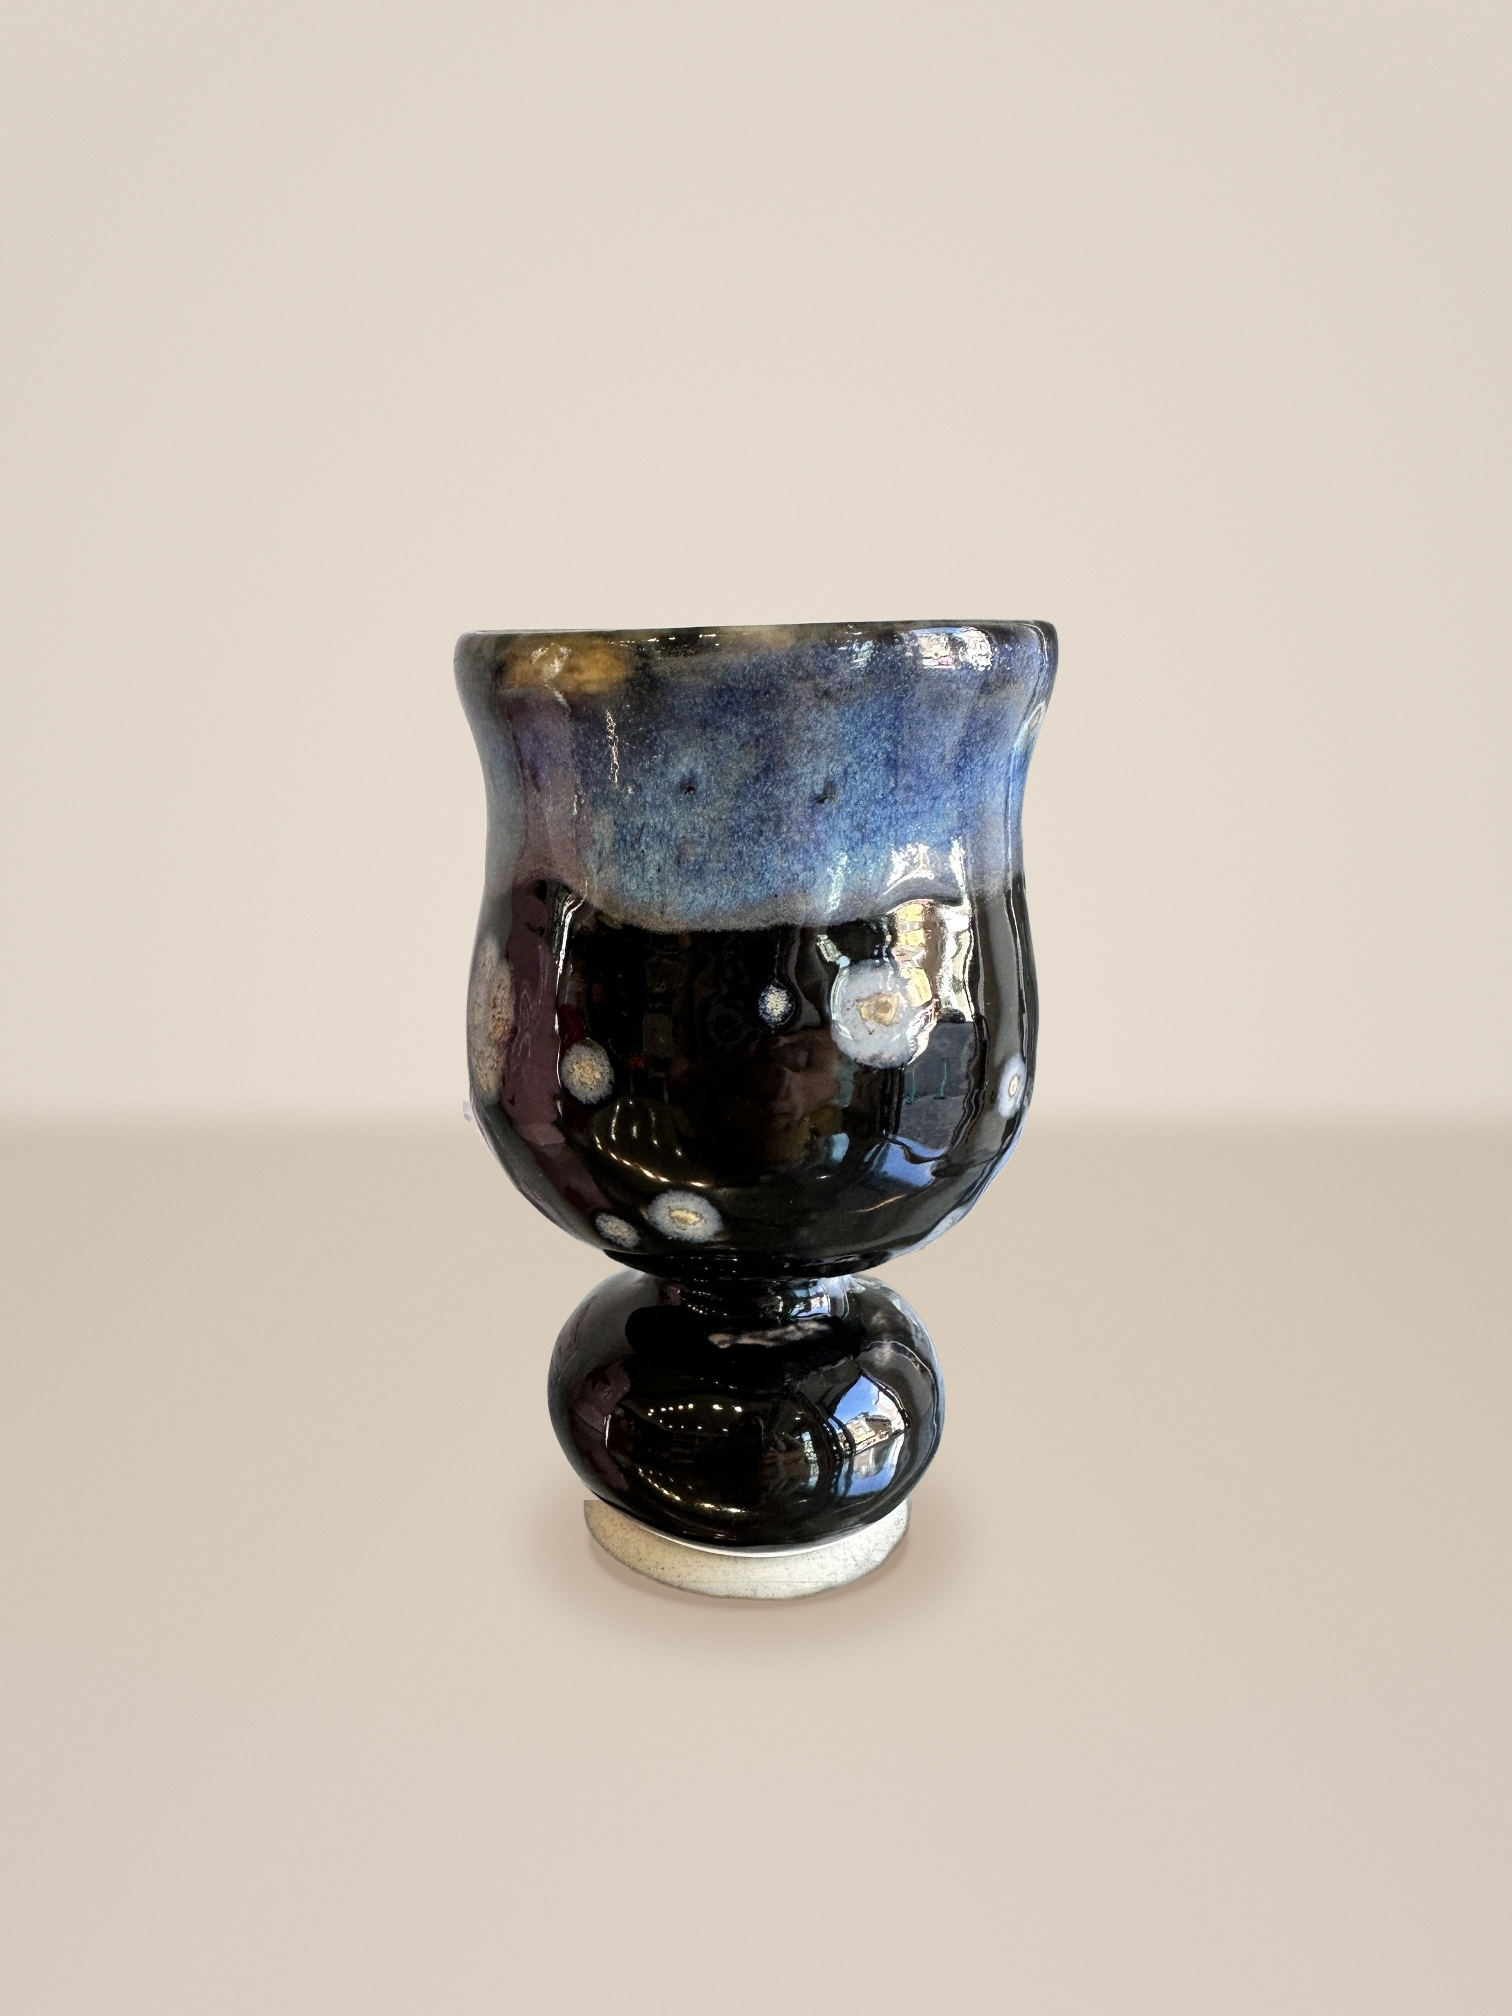
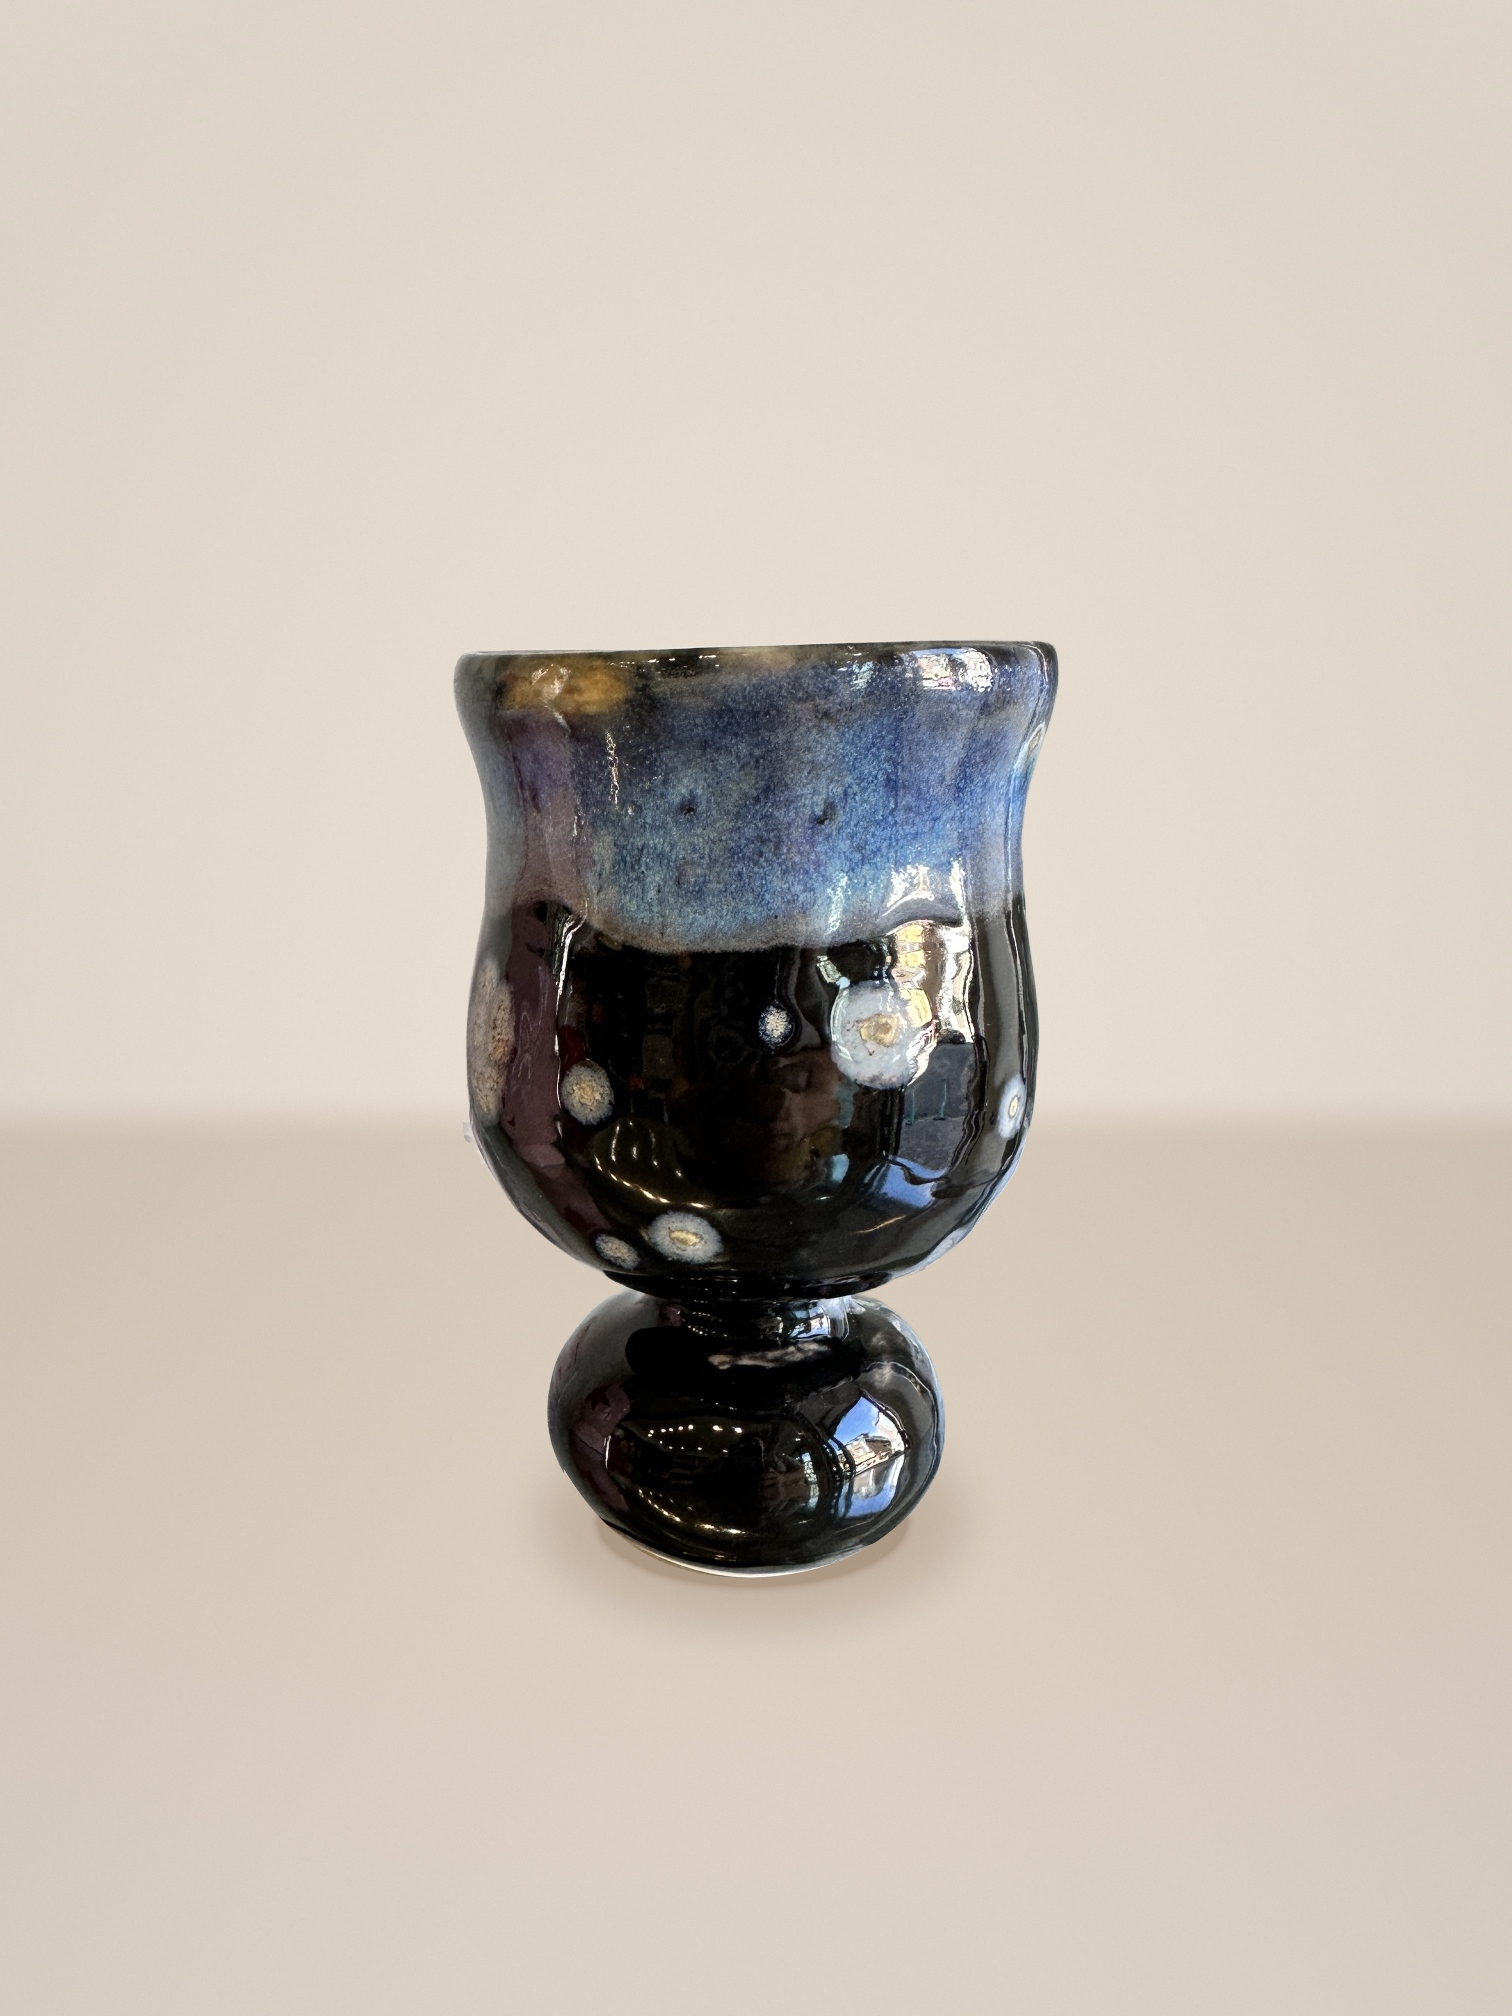
Cup: remove the foot reflection, keep only the silver rim
The beige band under the cup's black body is the foot's reflection on
the metal shelf. Add --reflection rim, which finds where the bright band
meets the dark glaze (scanning up from the bottom), fits a smooth curve
robust to glossy highlights, keeps the thin silver rim at the front and
cuts everything below. Drop the foot-zone model union that had kept the
reflection. Earlier sample outputs are unchanged.

Claude-Session: https://claude.ai/code/session_01WGwx9JVhJ7CYZxXMbtASsV

Changed region(s): [[0.2798, 0.2812, 0.7149, 0.8125]]

diff --git a/tools/replace_background.py b/tools/replace_background.py
@@ -7,9 +7,9 @@
 사용법:
     python tools/replace_background.py product.jpg bg_reference.jpg out.jpg            # 위에서 본 사진
     python tools/replace_background.py product.jpg bg_reference.jpg out.jpg --view side  # 옆모습(거울 반사)
-    # 배경에 가격표·투명 아크릴 등 소품이 많을 때 (굽 아래 반사가 이미 분리되는 경우)
+    # 배경에 가격표·투명 아크릴 등 소품이 많고, 어두운 유광 몸체 아래 굽이 비친 경우
     python tools/replace_background.py product.jpg bg_reference.jpg out.jpg --view side \\
-        --model ensemble --reflection none
+        --model ensemble --reflection rim
 """
 import argparse
 
@@ -55,18 +55,11 @@ def product_mask(img_bgr, model="isnet-general-use"):
 
     model="ensemble": isnet 으로 '어느 덩어리가 제품인지'를 정하고(주변 소품과
     잘 분리됨), 그 영역 안에서 birefnet 의 더 정확한 경계를 쓴다.
-    단 굽 부분은 두 결과의 합집합을 쓴다.
     """
     if model == "ensemble":
         a_i, guide = _clean(_rembg(img_bgr, "isnet-general-use"))
         guide = cv2.dilate(guide, cv2.getStructuringElement(cv2.MORPH_ELLIPSE, (31, 31)))
         a, _ = _clean(_rembg(img_bgr, "birefnet-general") * guide)
-        # 굽(맨 아래 10%)은 바닥 반사와 헷갈려 birefnet 이 잘라먹는 경우가 있어
-        # 두 모델 결과를 합친다
-        ys = np.nonzero(a_i > 0.5)[0]
-        zone = int(ys.max() - 0.10 * (ys.max() - ys.min()))
-        a[zone:] = np.maximum(a[zone:], a_i[zone:])
-        a, _ = _clean(a)
     else:
         a, _ = _clean(_rembg(img_bgr, model))
     # 경계 바깥 1~2px만 부드럽게, 안쪽은 확실히 1.0 (제품 원본 유지)
@@ -236,6 +229,49 @@ def remove_mirror_reflection(img_bgr, alpha):
     return out, q, (xv.min(), xv.max())
 
 
+def remove_rim_reflection(img_bgr, alpha, line_px=7):
+    """유광(검정 등 어두운) 몸체 아래로 굽이 밝게 비친 경우의 반사 제거.
+
+    열마다 마스크 맨 아래에서 위로 올라가며 밝은 반사 띠를 지나
+    어두운 유약면이 나오는 지점을 찾고, 그 점들에 매끈한 곡선을 맞춘다.
+    가운데는 몸체 아래 얇은 은색 테두리(실제 굽 끝, line_px)를 남기고
+    좌우로 갈수록 0 으로 줄여, 그 아래 밝은 띠(반사)는 모두 잘라낸다.
+    """
+    g = cv2.GaussianBlur(cv2.cvtColor(img_bgr, cv2.COLOR_BGR2GRAY).astype(np.float32),
+                         (0, 0), 1.5)
+    solid = alpha > 0.5
+    ys, xs = np.nonzero(solid)
+    top, bot = ys.min(), ys.max()
+    lim = int(bot - 0.15 * (bot - top))
+    X, T = [], []
+    for x in range(xs.min(), xs.max() + 1):
+        col = np.nonzero(solid[:, x])[0]
+        if not len(col):
+            continue
+        b = y = col.max()
+        while y > max(lim, col.min()) and not (g[y - 3:y + 1, x] < 80).all():
+            y -= 1
+        if b - (y + 1) > 6:  # 밝은 띠가 있는 열만
+            X.append(x)
+            T.append(y + 1)
+    if len(X) < 20:
+        return alpha
+    X, T = np.array(X, float), np.array(T, float)
+    keep = np.ones(len(X), bool)
+    for _ in range(5):  # 유광 하이라이트로 튄 점 제거하며 4차 곡선 맞추기
+        p = np.polyfit(X[keep], T[keep], 4)
+        r = np.abs(T - np.polyval(p, X))
+        keep = r < max(3.0, 2.5 * np.median(r[keep]))
+    h, w = alpha.shape
+    xl, xr = X.min(), X.max()
+    xc, hw = (xl + xr) / 2, (xr - xl) / 2
+    xx = np.arange(w, dtype=np.float64)
+    thick = line_px * np.clip(1 - (np.abs(xx - xc) / hw) ** 4, 0, 1)
+    cut = np.where((xx >= xl) & (xx <= xr), np.polyval(p, xx) + thick, 1e9)
+    yy = np.arange(h, dtype=np.float64)[:, None]
+    return np.minimum(alpha, np.clip(cut[None, :] - yy + 0.5, 0, 1).astype(np.float32))
+
+
 def foot_from_mask(alpha):
     """반사 제거가 필요 없을 때: 마스크 아래 윤곽에서 굽 바닥 타원을 추정.
 
@@ -288,8 +324,9 @@ def main():
     p.add_argument("--model", default="isnet-general-use",
                    help="rembg 분할 모델. 배경이 복잡하면(가격표·투명 아크릴 등) "
                         "ensemble(isnet으로 제품 선택 + birefnet 경계)이 가장 정확함")
-    p.add_argument("--reflection", choices=["auto", "thin", "mirror", "none"], default="auto",
+    p.add_argument("--reflection", choices=["auto", "thin", "mirror", "rim", "none"], default="auto",
                    help="바닥 반사 제거 방식. auto: top→thin, side→mirror. "
+                        "rim: 어두운 유광 몸체 아래 밝은 굽 반사(은색 테두리만 남김). "
                         "none: AI 마스크가 이미 굽 끝에서 정확히 끝날 때")
     args = p.parse_args()
 
@@ -306,6 +343,8 @@ def main():
         alpha, q, foot_x = remove_mirror_reflection(img, alpha)
     elif refl == "thin":
         alpha = remove_bottom_reflection(img, alpha)
+    elif refl == "rim":
+        alpha = remove_rim_reflection(img, alpha)
 
     # 제품을 가로 중앙으로 평행이동만 한다(크기 변경/회전 없음 → 픽셀 재샘플링 없음)
     ys, xs = np.nonzero(alpha > 0.5)
